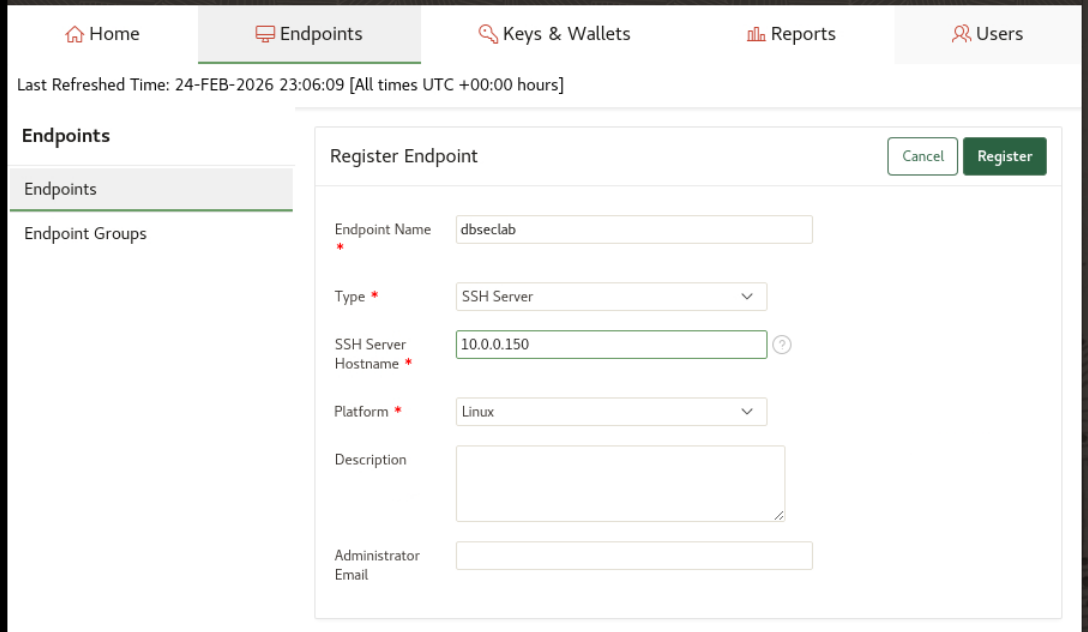
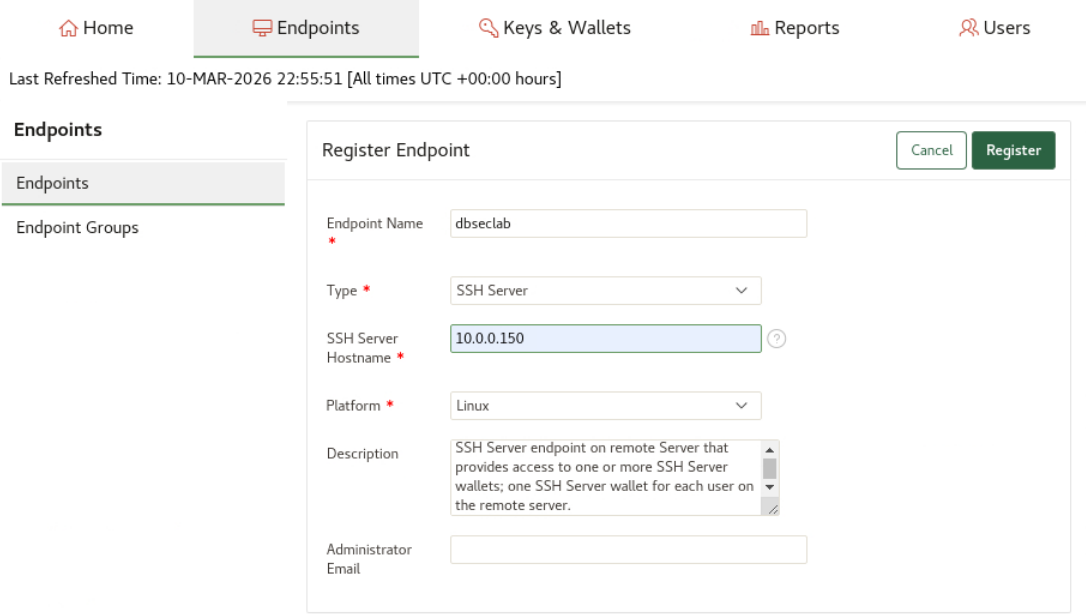
minor updates

diff --git a/database/advanced/key-vault_ssh/key-vault_ssh.md b/database/advanced/key-vault_ssh/key-vault_ssh.md
@@ -54,7 +54,7 @@ This lab assumes you have:
 
     - Click on each Remote Desktop link available in the Labs details to open web browser tabs for each of them.
 
-        - **Remote SSH Server** desktop (here *`dbsec-lab`* with Private IP *`10.0.0.150`*)
+        - **Remote SSH Server** desktop (here `dbsec-lab` with Private IP `10.0.0.150`)
 
             ![Key Vault](./images/okv_ssh-001.png "Remote SSH Server")
 
@@ -80,7 +80,7 @@ This lab assumes you have:
 
             ```
             <copy>
-            ssh -i ~/.ssh/id_rsa opc@dbsec-lab
+            ssh -i ~/.ssh/id_rsa opc@10.0.0.150
             </copy>
             ```
 
@@ -100,7 +100,7 @@ This lab assumes you have:
 
 2. **Reset the randomly generated password** (when you login to Oracle Key Vault console for the first time, you will be asked to change your password)
 
-    - On the SSH Server remote desktop (DBSeclab VM), run the command below to print the OKV Console password generated during LiveLabs deployment for all OKV users. The password is saved in the `wui_passphrase` file:
+    - On the SSH Server remote desktop (DBSeclab VM), run the command below to see the random OKV Console password that has been generated during LiveLabs provisioning for all OKV users. The password is saved in the `wui_passphrase` file:
         ```
         <copy>
         cat /home/oracle/DBSecLab/livelabs/okv/wui_passphrase
@@ -147,8 +147,9 @@ In this lab, we will introduce remote server access controls by centrally managi
         - Type: `SSH Server`
         - SSH Server Hostname: `10.0.0.150`
         - Platform: `Linux`
+        - Discription: `SSH Server Endpoint on remote server that provides access to one or more SSH Server wallets; one SSH Server wallet for each user on the remote server.`
 
-            ![Key Vault](./images/okv_ssh-012.png "Add Endpoint - Form")
+        ![Key Vault](./images/okv_ssh-012.png "Add Endpoint - Form")
 
     - Click [**Register**]
 
@@ -216,24 +217,8 @@ In this lab, we will introduce remote server access controls by centrally managi
         **Note**: If the token is valid, the other fields populate with the details previously entered during endpoint creation.
         
         The software is automatically downloaded into the "Downloads" folder.
-<!--    
-    - Download the **okvclient.jar** file to your remote server (dbseclab)
 
-        - Click on the **Download icon** and click the **Show in folder** icon for the okvclient.jar file
-
-            ![Key Vault](./images/okv_ssh-025.png "Show download folder")
-
-        - Right click on the jar file and select `Move to...`
-
-            ![Key Vault](./images/okv_ssh-026.png "Move the file")
-
-        - Navigate to `/tmp` and click [**Select**]
-
-            ![Key Vault](./images/okv_ssh-027.png "Move the file to tmp")
-
-        - Close the file window
--->
-4. Go back to **your terminal session on the remote server** (dbseclab): The remote server owner has sudo privileges and can install the SSH Server endpoint.
+4. Go back to **your terminal session on the remote server** (dbseclab): Only the remote server owner has sudo privileges and can install the SSH Server endpoint:
 
     - Install the OKV client endpoint software with root privileges (press *enter* for AUTO-LOGIN)
 
@@ -245,7 +230,7 @@ In this lab, we will introduce remote server access controls by centrally managi
         </copy>
         ```
 
-        ![Key Vault](./images/okv_ssh-028.png "Download and install the OKV SSH Server endpoint software into /opt/okv/ as root as an auto-open endpoint.")
+        ![Key Vault](./images/okv_ssh-028.png "Install the OKV SSH Server endpoint software into /opt/okv/ as root as an auto-open endpoint.")
 
         **Note**:
         - The `/opt/okv/` directory stores the OKV client software.
@@ -315,7 +300,6 @@ In this lab, we will introduce remote server access controls by centrally managi
 
         ```
         <copy>
-        cd
         sudo grep "opc@db23ai" /home/opc/.ssh/authorized_keys > /home/opc/.ssh/id_rsa_ADMIN.pub
         </copy>
         ```
